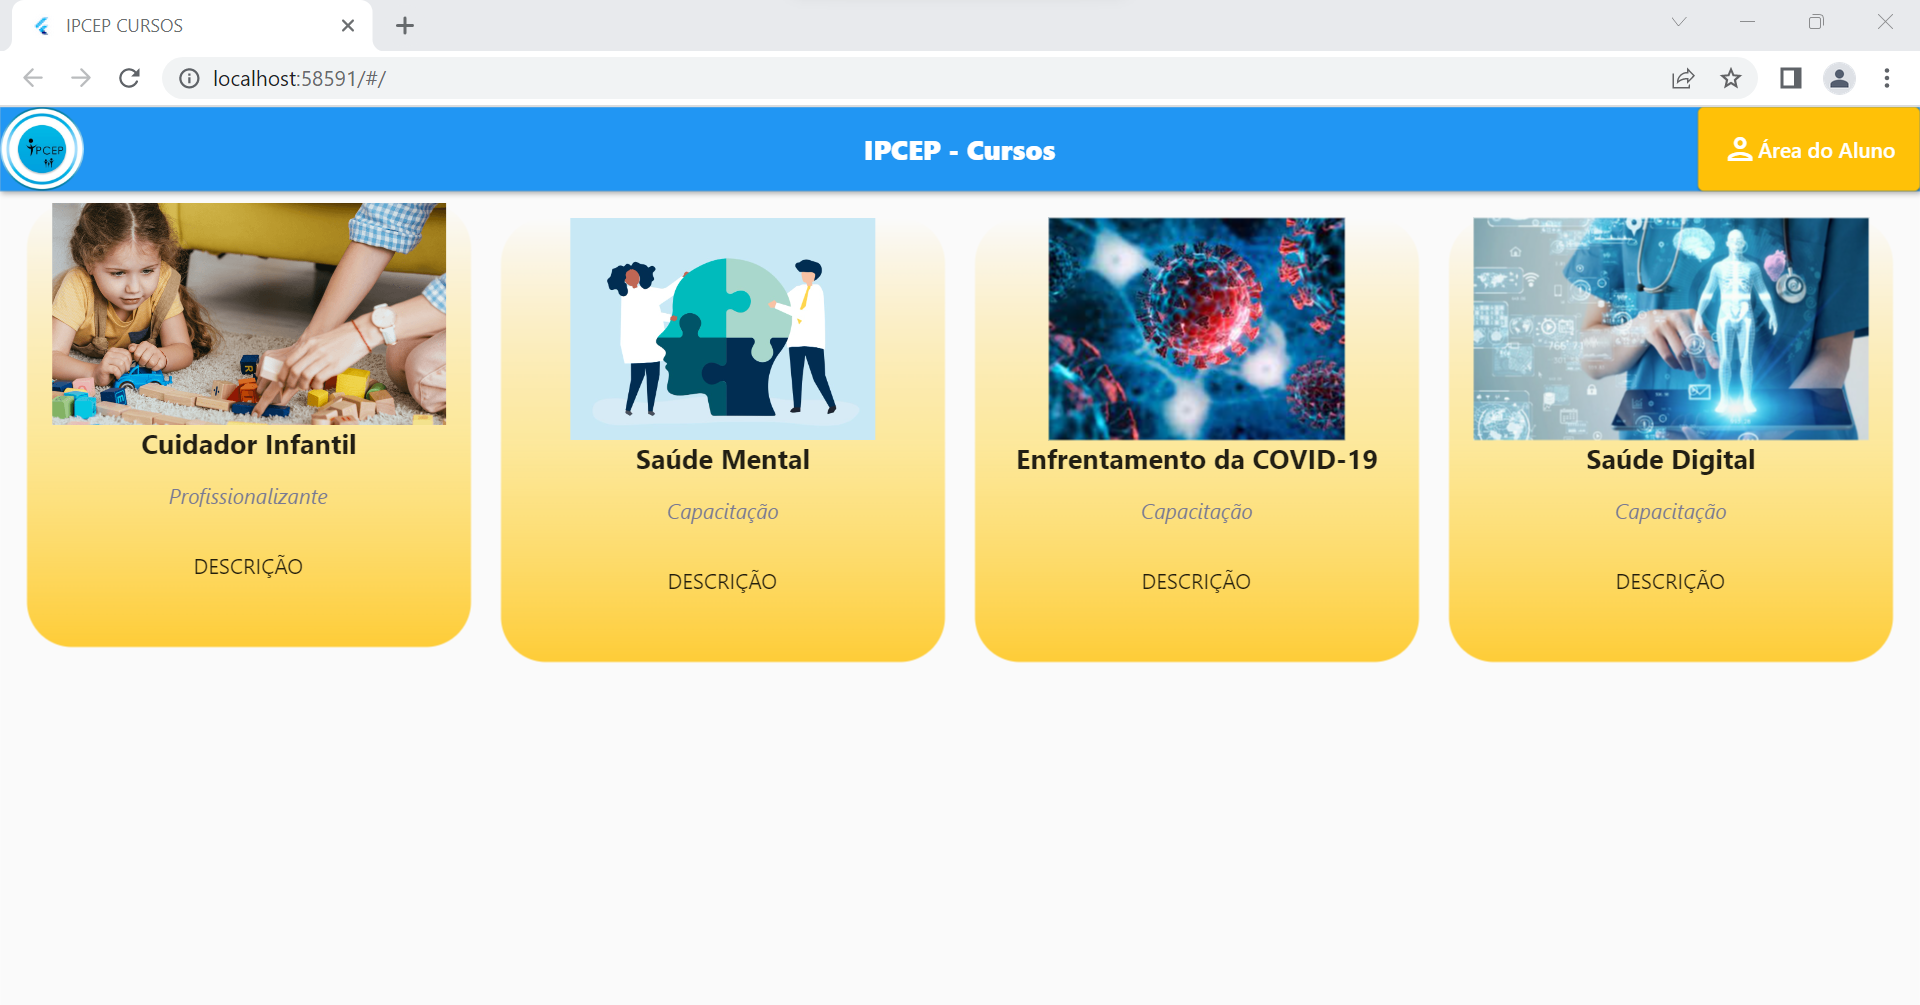
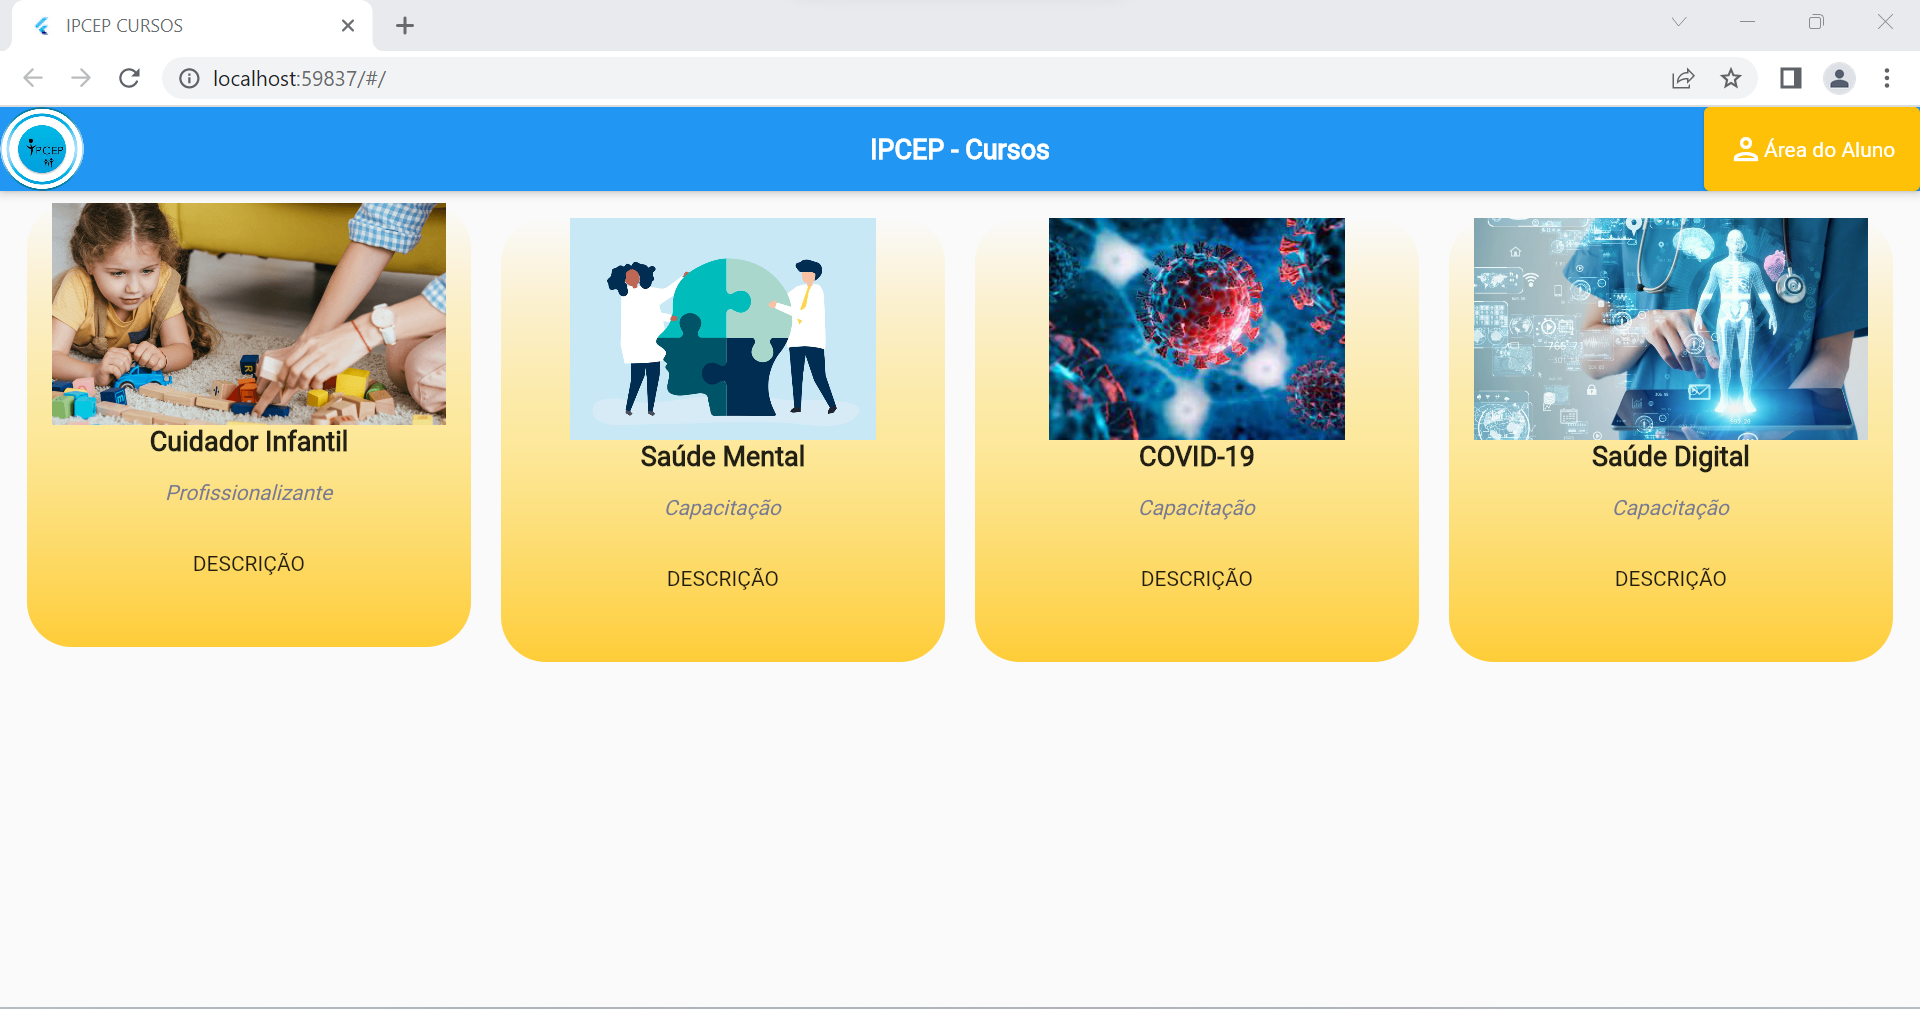
fix: TextErrors

diff --git a/lib/views/Home_Page.dart b/lib/views/Home_Page.dart
@@ -82,7 +82,7 @@ class _HomePageState extends State<HomePage> {
                 // rota: '/curso-cuidador-infantil',
               ),
               CardCourses(
-                nome_curso: 'Enfrentamento da COVID-19',
+                nome_curso: 'COVID-19',
                 grau_curso: 'Capacitação',
                 descricao: 'DESCRIÇÃO',
                 url: '../../../assets/images/covid19.jpeg',
